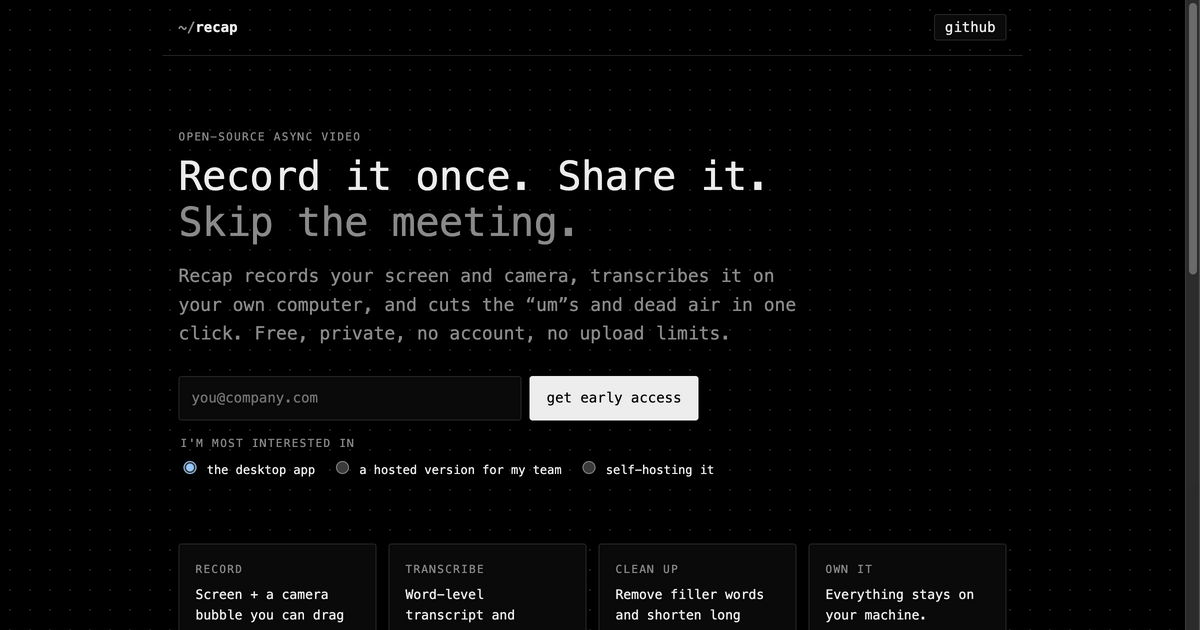
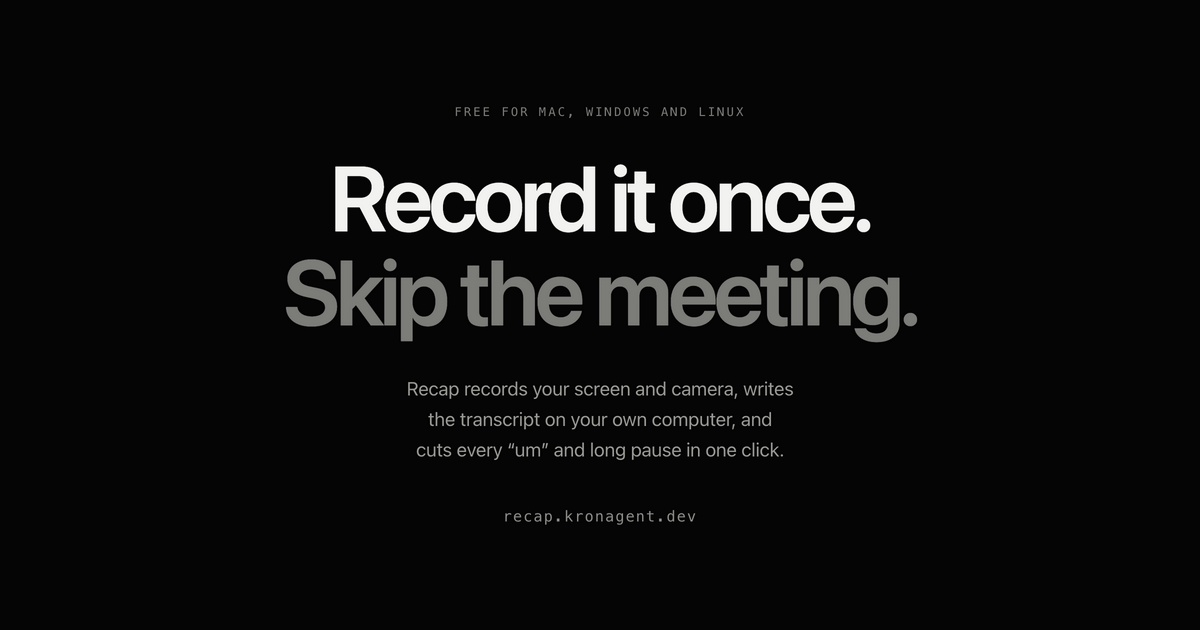
Site: new link-preview image matching the current design

diff --git a/site/public/index.html b/site/public/index.html
@@ -9,8 +9,11 @@
   <meta property="og:title" content="Recap: record it once, skip the meeting" />
   <meta property="og:description" content="A free screen recorder that transcribes on your computer and cuts the ums in one click." />
   <meta property="og:url" content="https://recap.kronagent.dev/" />
-  <meta property="og:image" content="https://recap.kronagent.dev/og.png" />
+  <meta property="og:image" content="https://recap.kronagent.dev/og.png?v=2" />
+  <meta property="og:image:width" content="1200" />
+  <meta property="og:image:height" content="630" />
   <meta name="twitter:card" content="summary_large_image" />
+  <meta name="twitter:image" content="https://recap.kronagent.dev/og.png?v=2" />
   <link rel="icon" href="/icon.png" />
   <link rel="stylesheet" href="/style.css?v=3" />
 </head>
